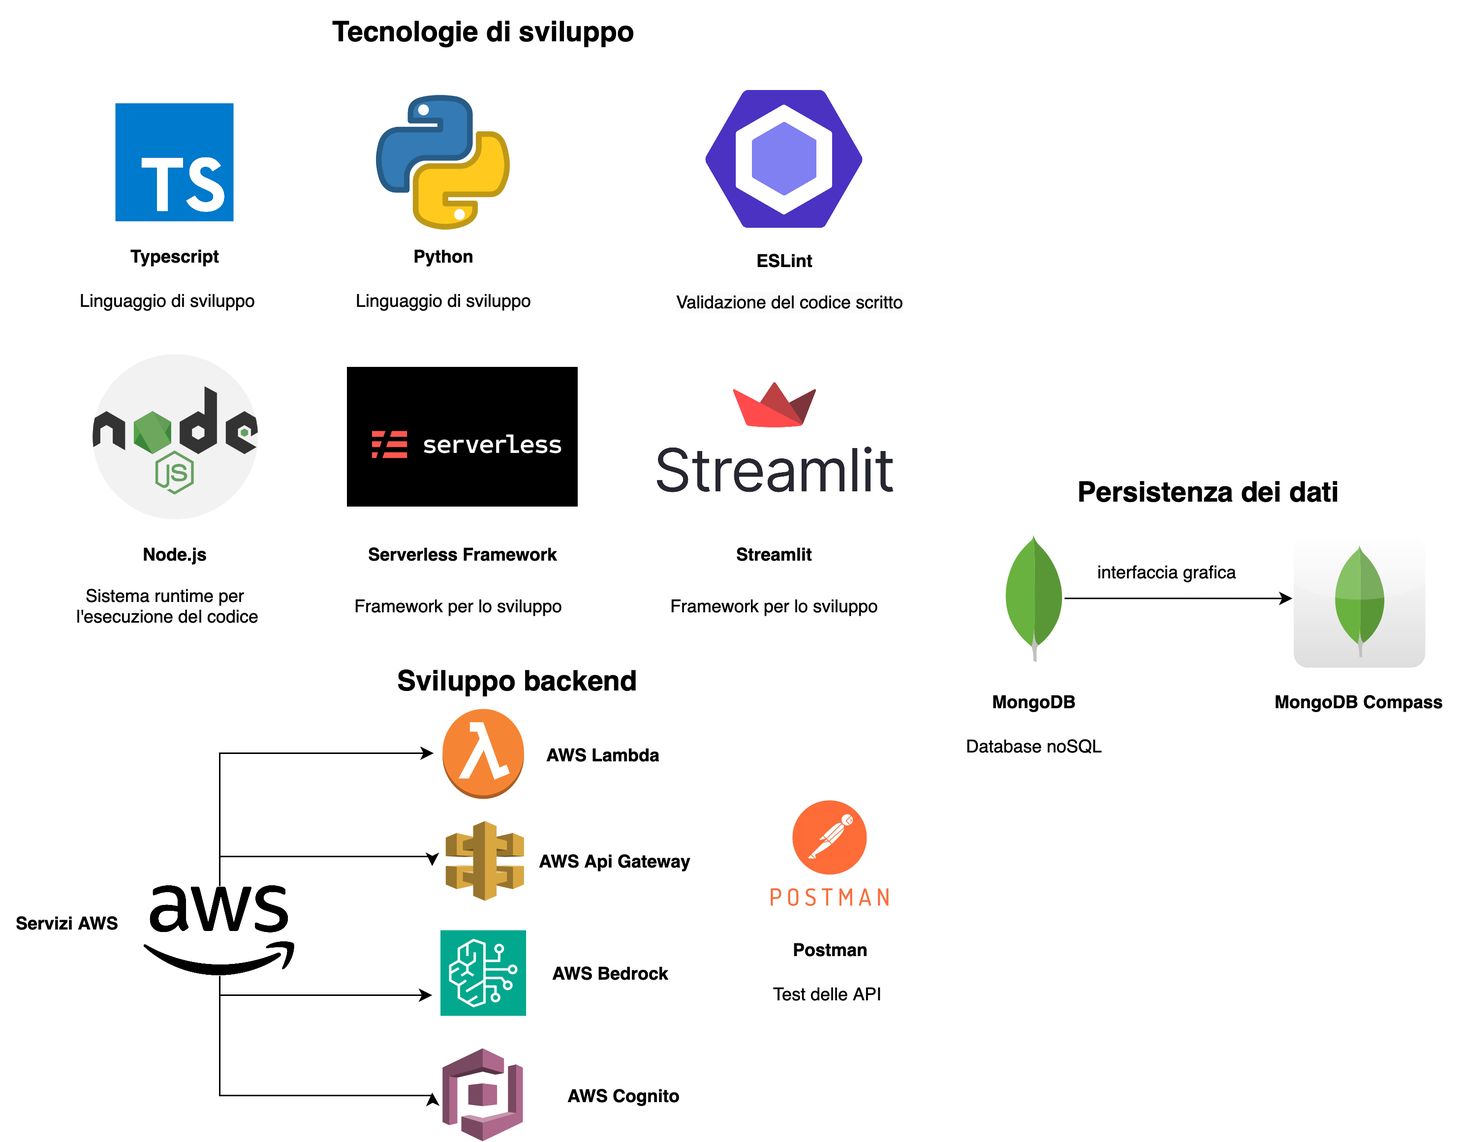
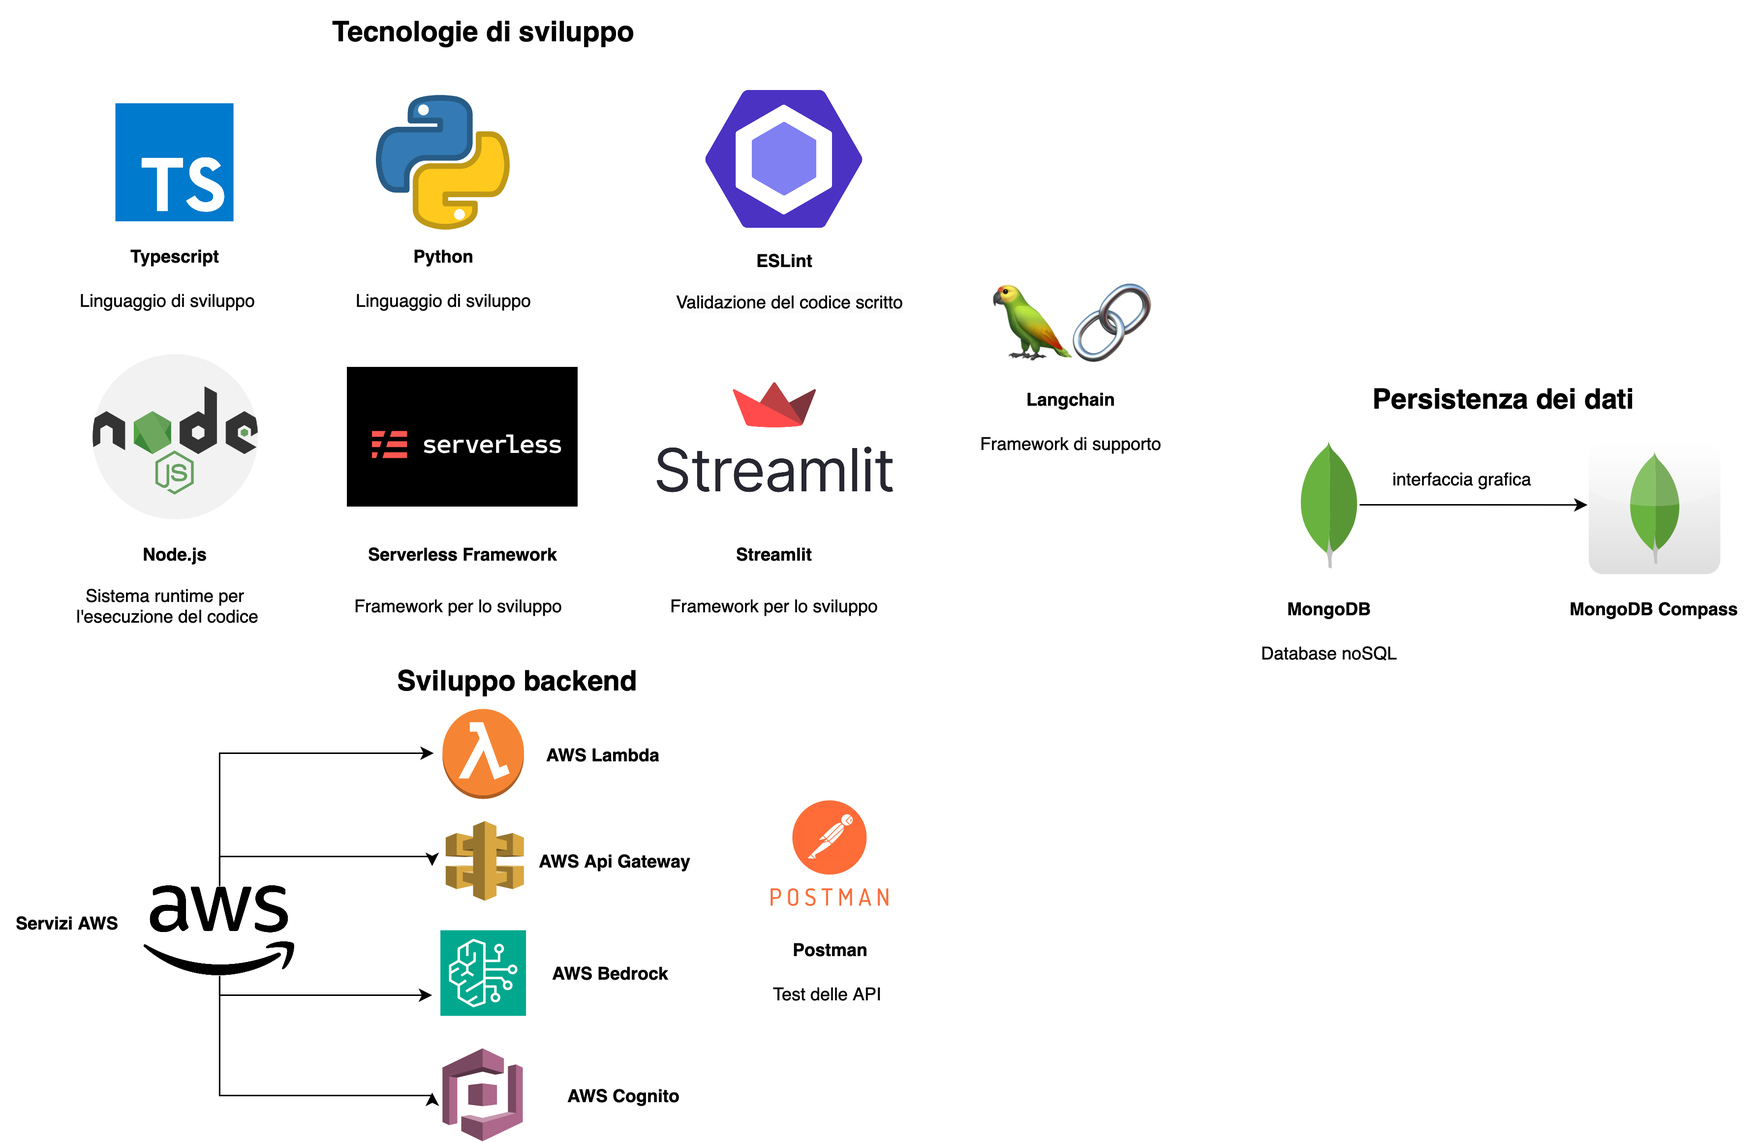
feat: continuazione cap 3 e sistemazione generali

diff --git a/chapters/svolgimentoStage.tex b/chapters/svolgimentoStage.tex
@@ -99,14 +99,14 @@ Qui di seguito presento nell'immagine \ref{fig:gantt} che rappresenta la pianifi
 L'attività di revisione del progetto ritengo essere stata di fondamentale importanza e più utile ai fini formativi dello \textit{stage}.
 Nel corso del tirocinio ho avuto modo di sperimentare due tipologie di revisione: il \textit{daily}, un incontro giornaliero con il \textit{tutor} aziendale, e lo \textit{sprint review}, un incontro settimanale con il \textit{tutor} aziendale per valutare quanto avevo svolto durante la settimana e pianificare le attività per la settimana successiva.
 L'occorrenza del \textit{daily} è stata purtroppo però limitata a causa di numerosi impegni che il \textit{tutor} aziendale aveva durante la giornata. Sono stati comunque utili, soprattutto all'inizio dello \textit{stage}, per chiarire dubbi su come procedere con le attività e per ricevere feedback immediato su quanto svolto.
-Lo \textit{sprint review} invece è stato quello presente con regolarità assoluta, che mi ha permesso di ricevere un feedback più dettagliato su quanto avevo svolto durante la settimana, che mi hanno permesso di correggere eventuali errori e di migliorare la qualità del lavoro svolto.
+Lo \textit{sprint review} invece è stato quello presente con regolarità durante tutto il periodo di \textit{stage}, che mi ha permesso di ricevere un feedback più dettagliato su quanto avevo svolto durante la settimana. Questi incontri periodici mi hanno permesso di correggere eventuali errori e di migliorare la qualità del lavoro svolto.
 
 \subsection{Interazioni con il tutor aziendale}
 Come descritto nella sezione \ref{sec:revisioni}, le interazioni con il \textit{tutor} aziendale sono state numerose e di fondamentale importanza per il corretto svolgimento delle attività.
 Nelle giornate in cui non era possibile riferirmi direttamente al \textit{tutor} aziendale, mi sono rivolto ad una figura di supporto, che in caso di assenza o indisponibilità del \textit{tutor} aziendale, era predista all'aiuto degli stagisti in caso di problematiche.
 
 
-\section{Analisix dei rischi}
+\section{Analisi dei rischi}
 I primi giorni di stage sono stati dedicati all'individuazione dei potenziali rischi che avrei potuto incontrare durante lo svolgimento dello \textit{stage}.
 Si farà riferimento ai rischi individuati (R) seguendo la seguente notazione: 
 \begin{center}
@@ -455,7 +455,7 @@ dove:
 \end{longtable}
 
 \section{Progettazione}
-\subsection{RAG e selezione del modello LLM}
+\subsection{RAG e selezione del modello LLM} \label{sec:rag}
 L'integrazione e l'utilizzo di \gls{llm} e \gls{rag-g} rappresenta il fulcro dei progetti che ho sviluppato durante lo \textit{stage}.
 Di seguito descrivo il funzionamento della \gls{rag-g} e mostro che modello ho selezionato per la generazione di testo. Mostrerò anche il \textit{benchmark} creato con il quale ho selezionato il modello migliore per la generazione di testo.
 \subsubsection{Funzionamento della RAG}
@@ -466,7 +466,7 @@ Il funzionamento della \gls{rag-g} può essere diviso in più fasi, qui di segui
     \item \textbf{Recupero delle informazioni pertinenti}: quando l'utente crea una \textit{query}, il sistema utilizza il \textit{database} vettoriale per recuperare le informazioni e i dati più pertinenti alla richiesta dell'utente. La ricerca coinvolge l'uso di tecniche di \gls{knn} per trovare i vettori più simili al vettore della \textit{query}. Così facendo si ottengono i dati più pertinenti alla richiesta dell'utente. Nel progetto di \textit{stage} il \textit{database} MongoDB permetteva la creazione di un indice vettoriale adibito alla ricerca vettoriale. Nella creazione dell'indice si poteva specificare il numero di dimensione del vettore, e la funzione di similarità utilizzata per la ricerca;
     \begin{figure}[H]
         \centering  
-        \includegraphics[width=0.8\textwidth]{indexMongoDB.png}
+        \includegraphics[width=0.95\textwidth]{indexMongoDB.png}
         \caption{Indice vettoriale creato su MongoDB}
         \label{fig:indexMongoDB}
     \end{figure}
@@ -536,7 +536,7 @@ Come mostro nell'immagine \ref{fig:benchmarkArchitecture}, il \textit{benchmark}
 Di seguito mostro il risultato del \textit{benchmark}:
 \begin{figure}[H]
     \centering
-    \includegraphics[width=1\textwidth]{benchmark.png}
+    \includegraphics[width=0.85\textwidth]{benchmark.png}
     \caption{Risultato del \textit{benchmark}}
     \label{fig:benchmarkResult}
 \end{figure}
@@ -588,12 +588,13 @@ Gli \textit{handlers} vengono configurati all'interno del file \textit{serverles
             },
           },
         ],
-        timeout: 300,
+        timeout: 60,
         memorySize: 128,
       },
     };
 \end{lstlisting}
-Come mostro nel frammento di codice \ref{lst:handlersJira}, sono presenti due funzioni \textit{lambda}, una rispettivamente per il salvataggio del \textit{ticket} chiuso (funzione \textit{save}) e una per la richiesta di proposta di risoluzione per il \textit{ticket} appena creato (funzione \textit{suggest}).  Entrambe le funzioni sono configurate per essere eseguite quando un evento \gls{httpg} viene scatenato. Definiscono inoltre il tempo massimo di esecuzione e la quantità di memoria allocata per l'esecuzione.
+Come mostro nel frammento di codice \ref{lst:handlersJira}, sono presenti le configurazione di due funzioni \textit{lambda}, una rispettivamente per il salvataggio del \textit{ticket} chiuso (funzione \textit{save}) e una per la richiesta di proposta di risoluzione per il \textit{ticket} appena creato (funzione \textit{suggest}).  Entrambe le funzioni sono configurate per essere eseguite quando un evento \gls{httpg} viene scatenato. Questo evento viene scatenato da \gls{aws} API Gateway che riceve la notifica da Jira quando un \textit{ticket} viene creato o chiuso.
+Definiscono inoltre il tempo massimo di esecuzione e la quantità di memoria allocata per l'esecuzione.
 
 \subsubsection{\textit{Services}}
 La componente \textit{services} rappresenta la logica di business. Sono una serie di funzioni di supporto che vengono utilizzate dalle funzioni \textit{lambda} per eseguire operazioni specifiche. Queste funzioni vengono utilizzate per eseguire operazione ad esempio di connessione al \textit{database} o per l'interfacciamento con altri servizi quali ad esempio \gls{aws} Bedrock. Includono funzioni di \textit{parsing} per la gestione delle risposte. 
@@ -603,30 +604,75 @@ Questo approccio è vantaggioso in quanto:
     \item \textbf{Riusabilità}: le funzioni di supporto possono essere riutilizzate in altre funzioni \textit{lambda} che si vuole creare;
     \item \textbf{Pulizia del codice}: il codice delle funzioni \textit{lambda} risulta più pulito e leggibile in quanto le operazioni complesse vengono gestite da funzioni di supporto.
 \end{itemize}
+\noindent
+Per migliorare ulteriormente la struttura e la manutenibilità del codice, ho adotattato diversi \textit{design patterns}. Uno di questo è il \gls{dtog}, che viene utilizzato per trasferire i dati tra il \textit{client} e il \textit{server} e viceversa. Grazie a questo \textit{design pattern} è possibile selezionare solo i campi necessari che si vogliono trasferire, alleggerendo così il \textit{payload} della chiamata \gls{api}.
 
-
-\subsection*{\textit{Design patterns} utilizzati}
-\subsubsection{\textit{\gls{dtog}}}
-Il \gls{dtog} è un \textit{design pattern} che viene utilizzato per trasferire i dati tra il \textit{client} e il \textit{server} e viceversa. Utilizzando questo \textit{design pattern} è possibile selezionare i campi che si vogliono trasferire, alleggerendo così il \textit{payload} della chiamata \gls{api}.
 \begin{figure}[H]
     \centering
-    \includegraphics[width=0.9\textwidth]{dto.png}
-    \caption{Esempio di utilizzo del \textit{design pattern}}
-    \small Fonte: \url{https://www.baeldung.com/java-dto-pattern}
+    \includegraphics[width=0.7\textwidth]{dto.png}
+    \caption{Esempio di utilizzo del \textit{design pattern} DTO}
+    \small Fonte: \href{https://www.baeldung.com/java-dto-pattern} {www.baeldung.com}
     \label{fig:dto}
 \end{figure}
+\noindent
+Un altro \textit{desig pattern} che ho utilizzato è il \textit{Mapper pattern}, che è strettamente collegato al \gls{dtog} \textit{pattern}.  Come mostro nell'immagine \ref{fig:dto}, il \textit{mapper} consiste in uno o più metodi per facilitare la trasformazione dei \gls{dtog} in oggetti utilizzati dalla logica di \textit{business}, mappando i diversi campi da un tipo all’altro. All'interno del sistema Jira, il \textit{mapper} è stato utilizzato per trasformare i dati ricevuti dalle \gls{apig} di Jira in oggetti \textit{ticket} che vengono utilizzati dalle funzioni \textit{lambda} per eseguire le operazioni di salvataggio e di richiesta di proposta di risoluzione.
+Questo \textit{design pattern} contribuisce a mantere il codice organizzato, garantendo che i dati siano nel formato corretto. Ho adottato il \textit{Factory Method pattern} per la creazione delle interfacce di connessione con i vari modelli offerti da \gls{aws} Bedrock. Questo \textit{design pattern} permette di creare astrarre la logica di creazione degli oggetti, permettendo l'aggiunta di nuovi modelli senza necessità di modificare il codice esistente. La flessibilità e le scalabilità
+offerte da questo \textit{design pattern} sono state fondamentali per garantire che il sistema possa evolvere nel tempo, permettendo l'integrazione di nuovi modelli che verranno resi disponibili in futuro. 
+Infine, ho adotatto il \textit{design pattern Strategy} per la creazione delle strategie di generazione del \textit{prompt} e di risposta dei vari \gls{llm-g} offerti da \gls{aws} Bedrock. Definisco una strategia di generazione \textit{prompt} ad ogni modello in quanto ognuno di essi possiede delle \textit{keywords} e una formattazione del testo specifico. Il \textit{prompt} mostrato nella sezione \ref{sec:rag} è la base per ognuno dei modelli. 
 
-\subsubsection{\textit{Mapper}}
-Il \textit{design pattern mapper} è strettamente legato al \gls{dtog}. Come mostro nell'immagine \ref{fig:dto}, il \textit{mapper} consiste in uno o più metodi per facilitare la trasformazione dei \gls{dtog} in oggetti utilizzati dalla logica di \textit{business}, mappando i diversi campi da un tipo all’altro. 
-All'interno del sistema Jira, il \textit{mapper} è stato utilizzato per trasformare i dati ricevuti dalle \gls{apig} di Jira in oggetti \textit{ticket} che vengono utilizzati dalle funzioni \textit{lambda} per eseguire le operazioni di salvataggio e di richiesta di proposta di risoluzione.
+\begin{figure}[H]
+    \centering
+    \includegraphics[width=0.7\textwidth]{strategy.png}
+    \caption{Illustrazione del \textit{design pattern} Strategy}
+    \small Fonte: \href{https://medium.com/litslink/design-patterns-strategy-in-examples-eae7bf10a817} {www.medium.com}
+    \label{fig:strategy}
+\end{figure}
 
-\subsubsection{\textit{Factory Method pattern}}
-Il \textit{Factory Method pattern} è un \textit{design pattern} creazionale che fornisce un'interfaccia per creare un oggetto in una superclasse, ma permette alle proprie sottoclassi di decidere quale classe concreta istanziare. Questo \textit{design pattern} permette di spostare la responsabilità della creazione degli oggetti alla sottoclasse che utilizza il metodo \textit{factory}.
-Nel contesto del progetto, il \textit{Factory Method pattern} l'ho utilizzato per la creazione delle interfaccie di connessione con i \gls{llm-g} offerti da \gls{aws} Bedrock. Questo permette in futuro di poter aggiungere nuovi modelli, semplicemente creando una nuova interfaccia di connessione.
-
+\noindent
+Di seguito mostro lo schema dell'architettura del sistema Jira:
+\begin{figure}[H]
+    \centering
+    \includegraphics[width=1\textwidth]{architettura.png}
+    \caption{Schema dell'architettura del sistema Jira}
+    \label{fig:architetturaJira}
+\end{figure}
 
 \subsection{Architettura del \textit{Chatbot}}
-Descrizione dell'architettura del Chatbot tramite il framework Streamlit.
+La progettazione del \textit{chatbot} si è basata sull'architettura \textit{client-server} del \textit{framework} Streamlit. Il \textit{client} viene rappresentato dal \textit{browser} che l'utente utilizza per interagire con il \textit{chatbot}, mentre il \textit{server} è rappresentato dall'esecuzione del codice Python che in risposta alle azioni dell'utente, invia i risultati al \textit{client} sotto forma di HTML/CSS/JavaScript che vengono visualizzati nel \textit{browser}.
+\subsubsection{\textit{Backend}}
+Essendo l'architettura del \textit{chatbot} basata sul \textit{framework} Streamlit, il \textit{backend} è rappresentato dal codice Python che viene eseguito in risposta alle azioni dell'utente.
+Una componente chiave del \textit{backend} è l'utilizzo del \textit{framework} Langchain. Esso viene impiegato in diverse parti cruiciali del \textit{backend}, ovvero:
+\begin{itemize}
+    \item \textbf{Integrazione con \textit{database} vettoriale}: con l'utilizzo di Langchain, è possibile stabilire una connessione con il \textit{database} vettoriale MongoDB per effettuare la ricerca vettoriale dei \textit{ticket} completati più simili al testo inserito dall'utente;
+    \item \textbf{Gestione degli \gls{embedding-g}}: tramite LangChain viene facilitato l'uso di diversi modelli \gls{embedding-g} messi a disposizione da \gls{aws}. 
+    \item \textbf{Orchestrazione dei modelli}: come da requisito da soddisfare presentato nella tabella \ref{tab:tracciamentoRequisiti}, il \textit{chatbot} deve poter dare la possibilità all'utente di selezionare l' \gls{llm} con cui interrogare il \textit{chatbot}. LangChain permette di integrare ed orchestrare i diversi modelli consentendo una flessibilità nella scelta e nell'utilizzo dei modelli scelti dall'utente.
+\end{itemize} 
+
+\begin{lstlisting}[caption=Configurazione con LangChain di un servizio di \gls{embedding-g} offerto da \gls{aws}, label=lst:backendChatbot, language=Python]
+from langchain_community.embeddings.bedrock import BedrockEmbeddings
+
+embeddings = BedrockEmbeddings(
+    credentials_profile_name=st.secrets["credentials_profile_name"],
+    model_id="amazon.titan-embed-text-v2:0",
+    model_kwargs= {
+        "dimensions": 1024,
+        "normalize" : True
+    },
+    region_name="us-east-1",
+)
+\end{lstlisting}
+
+\subsubsection{\textit{Frontend}}
+Allo stesso modo, il \textit{frontend} del \textit{chatbot} è anch'esso rappresentato da codice Python. Tramite la libreria Streamlit, è possibile creare un'interfaccia grafica interattive per l'utente. Possiede una serie di componenti per la creazione di \textit{widget}. Grazie all' utilizzo \textit{framework}, l'interfaccia viene aggiornata automaticamente in risposta alle azioni dell'utente. \\
+\noindent
+Di seguito mostro lo schema dell'architettura del sistema \textit{Chatbot}:
+\begin{figure}[H]
+    \centering
+    \includegraphics[width=1\textwidth]{chatbot_architettura.png}
+    \caption{Schema dell'architettura del \textit{chatbot}}
+    \label{fig:architetturaChatbot}
+\end{figure}
+
 \section{Codifica}
 Descrizione dell'attività di codifica delle componenti \textit{AWS Lambda} e del \textit{chatbot}
 \section{Verifica e validazione}

diff --git a/chapters/introduzione.tex b/chapters/introduzione.tex
@@ -157,7 +157,7 @@ Node.js è un ambiente \textit{runtime} che consente di eseguire codice Javascri
 MongoDB è un \textit{database} non relazionale (\textit{NoSQL}) dove i dati non vengono strutturati in tabelle con uno schema preciso, ma vengono raggruppati in documenti dove la struttura dei dati può variare da documento a documento. Permette di salvare oltre ai dati anche i loro relativi \gls{embedding-g}, ovvero una rappresentazione numerica vettoriale dell'oggetto in uno spazio multidimensionale.
 \begin{figure}[H]
     \centering
-    \includegraphics[width=0.6\textwidth]{sqlvsnosql.png}
+    \includegraphics[width=0.48\textwidth]{sqlvsnosql.png}
     \caption{Differenza tra la struttura di un \textit{database} relazionale e un \textit{database} non relazionale}
     \small \textbf{Fonte:} \href{https://naveen-metta.medium.com/decoding-the-database-dilemma-sql-vs-nosql-in-system-design-8666e21f4a58c}{medium.com}
     \label{fig:sql-vs-nosql}
@@ -167,7 +167,7 @@ MongoDB è un \textit{database} non relazionale (\textit{NoSQL}) dove i dati non
 Il Serverless \textit{framework} è un \textit{framework} che permette la creazione di \gls{api}, un' interfaccia che definisce come due parti (applicazione \textit{client} e \textit{server}) comunicano tra loro usando richieste e risposte, su infrastuttura \gls{aws}. Permette la definizione di funzioni \textit{lambda} con i relativi \textit{trigger} di invocazione e il \textit{deploy} nel \textit{cloud}, attraverso un semplice comando che carica il codice sorgente e configura l'architettura in modo automatico. Supporta diversi \textit{plugin} che permettono l'utilizzo di altri servizi offerti da \gls{aws}.
 \begin{figure}[H]
     \centering
-    \includegraphics[width=0.8\textwidth]{serverless.png}
+    \includegraphics[width=0.68\textwidth]{serverless.png}
     \caption{Confronto tra un'architettura tradizionale e un' architettura \textit{\gls{serverlessg}}}
     \small \textbf{Fonte:} \href{https://medium.com/canonichq/server-v-s-serverless-architecture-bf3cdab28174}{medium.com}
     \label{fig:Serverless}
@@ -179,10 +179,20 @@ Streamlit è un \textit{framework open-source} che permette la creazione di appl
 Con il suo utilizzo, si possono trasformare \textit{script} Python in applicazioni \textit{web} interattive.
 \begin{figure}[H]
     \centering
-    \includegraphics[width=0.8\textwidth]{streamlit.png}
+    \includegraphics[width=0.7\textwidth]{streamlit.png}
     \caption{Esempio di applicazione \textit{web} creata con il \textit{framework} Streamlit}
     \small \textbf{Fonte:} \href{https://streamlit.io}{streamlit.io}
     \label{fig:Streamlit}
+\end{figure} 
+
+\subsubsection{LangChain}
+Langchain è un \textit{framework open-source} che fornisce strumenti e componenti modulari per la creazione di applicazioni, come \textit{chatbot}, che struttano i \gls{llm}. Questo \textit{framework} permette un interazione più semplice con questi modelli, permettendo di creare applicazioni che sfruttano le potenzialità dei \gls{llm} in modo più semplice. Nel contesto dello \textit{stage}, viene utilizzato assieme al \textit{framework} Streamlit.
+\begin{figure}[H]
+    \centering
+    \includegraphics[width=0.73\textwidth]{langchain.png}
+    \caption{Casi d'uso con Langchain} 
+    \small \textbf{Fonte:} \href{https://medium.com/@ebruboyaci/use-cases-with-langchain-e0fd5b0587f1}{https://medium.com}
+    \label{fig:Lanchain}
 \end{figure} 
 
 \subsubsection {Servizi AWS}
@@ -200,7 +210,7 @@ ESLint è un \textit{plugin} installato su Visual Studio Code che permette il co
 È possibile impostare una configurazione personalizzata (come l'indentazione del codice, la lunghezza delle righe, ecc.), permettendo così di scrivere codice uniforme agli \textit{standard} aziendali.
 \begin{figure}[H]
     \centering
-    \includegraphics[width=0.8\textwidth]{eslint.png}
+    \includegraphics[width=0.83\textwidth]{eslint.png}
     \caption{Esempio di configurazione di ESLint}
     \label{fig:ESlint}
 \end{figure} 
@@ -209,7 +219,7 @@ ESLint è un \textit{plugin} installato su Visual Studio Code che permette il co
 Postman è un \textit{software} che permette il salvataggio e il testing di \gls{api} in modo semplice. Tramite l'interfaccia è possibile organizzare le richieste e generare documentazione delle \gls{api} salvate.
 \begin{figure}[H]
     \centering
-    \includegraphics[width=0.8\textwidth]{postman.png}
+    \includegraphics[width=0.85\textwidth]{postman.png}
     \caption{Esempio di API di tipo \textit{POST} su Postman con relativo \textit{body}}
     \label{fig:Postman}
 \end{figure} 
@@ -220,7 +230,7 @@ Postman è un \textit{software} che permette il salvataggio e il testing di \gls
 MongoDB Compass è un \textit{software} che permette la visualizzazione dei documenti salvati nel \textit{database} MongoDB tramite un'interfaccia grafica.
 \begin{figure}[H]
     \centering
-    \includegraphics[width=0.8\textwidth]{mongodb.png}
+    \includegraphics[width=0.85\textwidth]{mongodb.png}
     \caption{Esempio di visualizzazione di documenti su MongoDB Compass}
     \label{fig:MongoDB}
 \end{figure} 
@@ -236,10 +246,10 @@ MongoDB Compass è un \textit{software} che permette la visualizzazione dei docu
 Di seguito uno schema riassuntivo in cui mostro l'utilizzo delle tecnologie nel progetto di \textit{stage}.
 \begin{figure}[H]
     \centering
-    \includegraphics[width=0.9\textwidth]{tecnologie.png}
+    \includegraphics[width=1\textwidth]{tecnologie.png}
     \caption{Utilizzo delle tecnologie nel progetto di \textit{stage}}
     \label{fig:tecnologie}
-    \small \textbf{Fonti:} \href{https://iconduck.com/icons/95017/typescript-icon}{Typescript: https://iconduck.com} \href{https://www.flaticon.com/free-icon/nodejs_919825}{Node\.js: https://www.flaticon.com} \href{https://www.iconfinder.com/icons/4518857/python_icon} {Python: https://www.iconfinder.com} \href{https://iconduck.com/icons/94274/eslint} {Eslint: https://iconduck.com} \href{https://www.serverless.com/} {Serverless: https://www.serverless.com} \href{https://iconduck.com/icons/10826/amazon-aws} {AWS: https://iconduck.com}
+    \small \textbf{Fonti:} \href{https://iconduck.com/icons/95017/typescript-icon}{Typescript: https://iconduck.com} \href{https://www.flaticon.com/free-icon/nodejs_919825}{Node\.js: https://www.flaticon.com} \href{https://www.iconfinder.com/icons/4518857/python_icon} {Python: https://www.iconfinder.com} \href{https://iconduck.com/icons/94274/eslint} {Eslint: https://iconduck.com} \href{https://www.serverless.com/} {Serverless: https://www.serverless.com} \href{https://iconduck.com/icons/10826/amazon-aws} {AWS: https://iconduck.com} \href{https://www.nuget.org/packages/LangChain/0.13.1-dev.178} {Langchain: https://www.nuget.org} 
 \end{figure}
 \section{Tipologia di clientela} \label{sec:clientela}
 Durante il mio periodo di \textit{stage} , ho avuto modo di osservare la diversità dei clienti che si rivolgono a Zero12 s.r.l. Tra i committenti dei vari progetti sviluppati dall'azienda, ci sono numerose aziende operanti nel medesimo settore, le quali richiedono consulenze sulle tecnologie di cui l'azienda è \textit{partner}.

diff --git a/config/packages.tex b/config/packages.tex
@@ -67,5 +67,4 @@
 \usepackage{float}                      % Per posizionare le immagini
 
 \usepackage{fancyvrb}                   % Per aggiungere codice
-\usepackage{minted}                     % Per aggiungere codice
 
